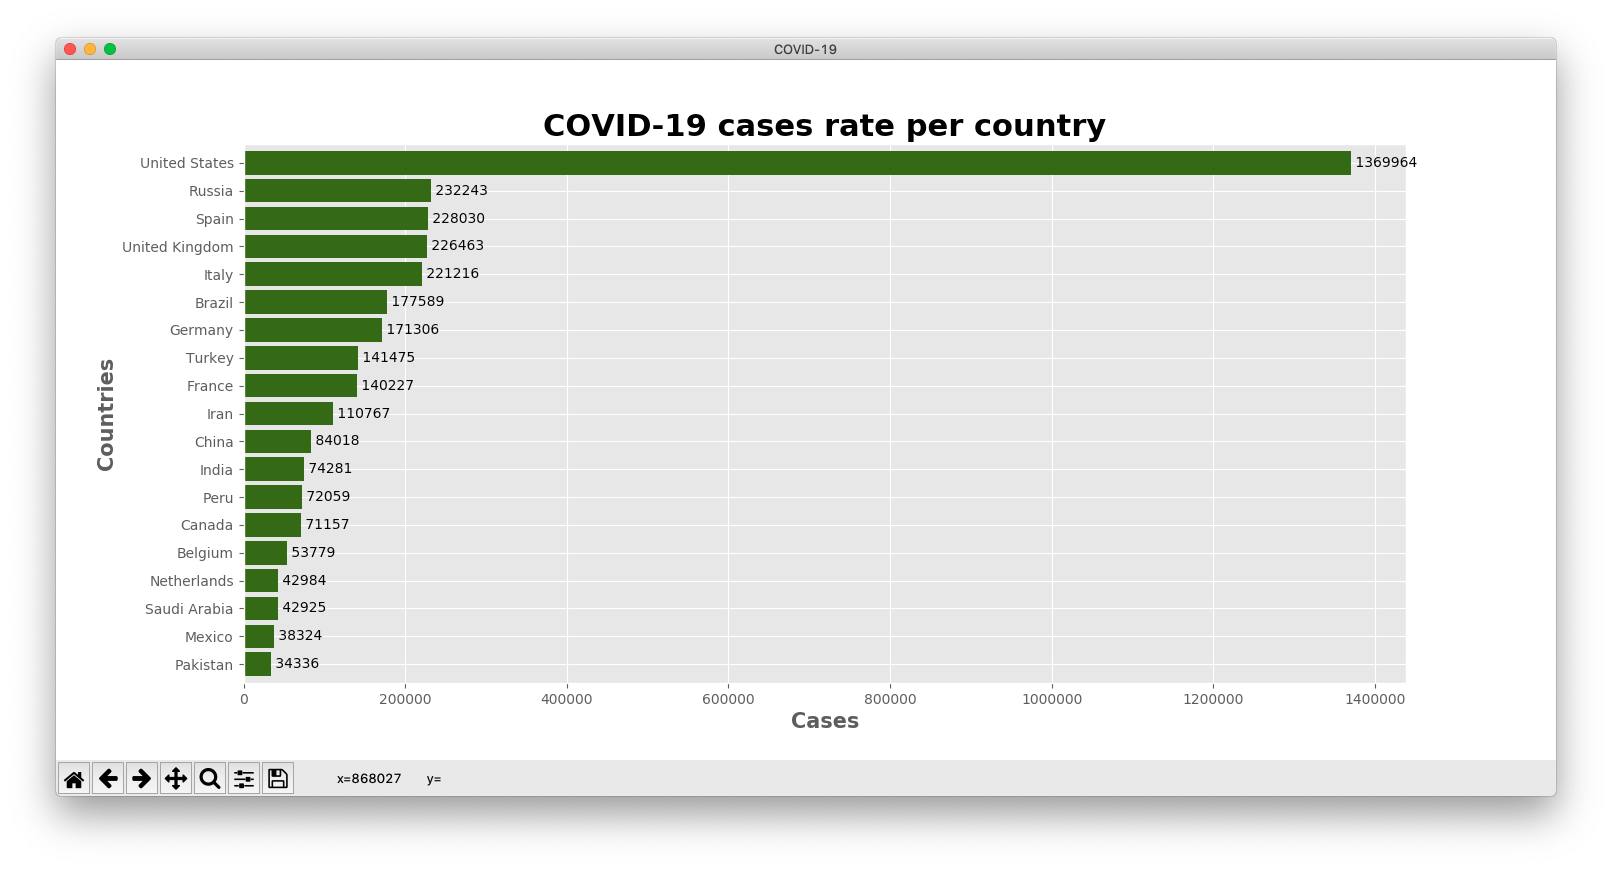
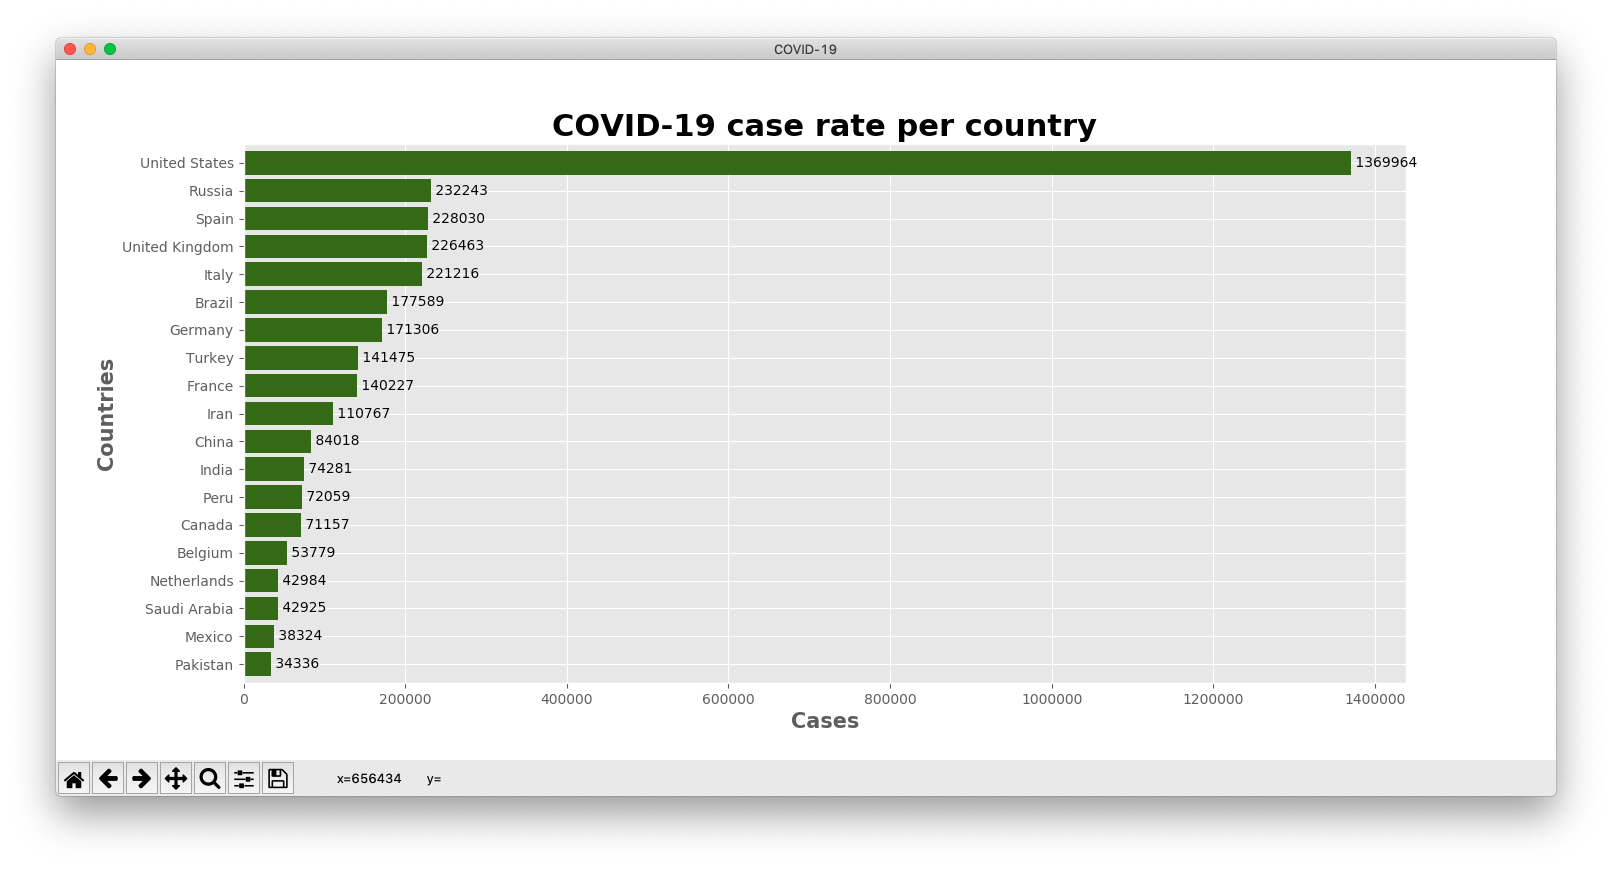
title typo / most cases

Changed region(s): [[0.3412, 0.1241, 0.6824, 0.1552], [0.2171, 0.869, 0.2481, 0.9]]

diff --git a/topgraphs.py b/topgraphs.py
@@ -10,7 +10,7 @@ def show_most_cases(chart, df):
         param: chart name, dataframe
     '''
     stats= chart.split(sep='_')[-1]
-    graph = Graph('COVID-19 ' + stats + ' rate per country', 'countries', stats)
+    graph = Graph('COVID-19 ' + stats[:-1] + ' rate per country', 'countries', stats)
     top20 = df.groupby('location')[[chart]].sum().sort_values([chart])[-20:-1].reset_index()
     top20.plot(kind='barh', color='#336600', width=0.85, y=chart, x='location', ax=graph.ax)
     graph.set_info()
